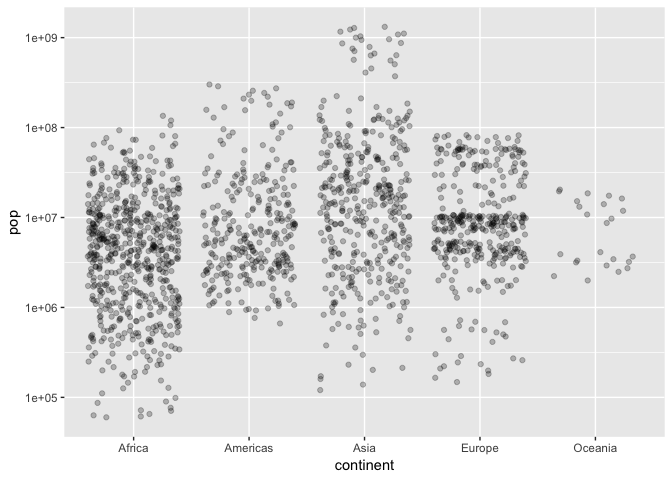
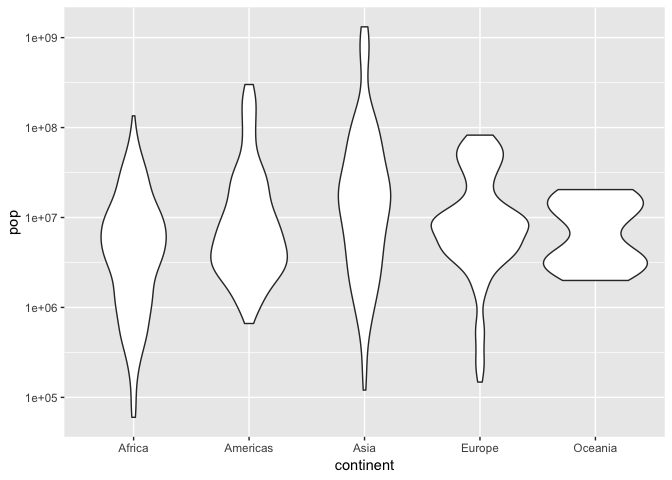
update cm006

diff --git a/cm006/cm006-exercise.md b/cm006/cm006-exercise.md
@@ -44,6 +44,8 @@ Let's look at a *scatterplot* of `gdpPercap` vs. `lifeExp`.
 
 1.  Populate the data and aesthetic mapping in `ggplot`. What is returned? What's missing?
 
+Answer: The points are missing
+
 ``` r
 ggplot(gapminder, aes(x=lifeExp, y=gdpPercap))
 ```
@@ -51,6 +53,8 @@ ggplot(gapminder, aes(x=lifeExp, y=gdpPercap))
 ![](cm006-exercise_files/figure-markdown_github/unnamed-chunk-2-1.png)
 
 1.  Add the missing component as a *layer*.
+
+Answer : geom\_point () added
 
 ``` r
 ggplot(gapminder, aes(x=lifeExp, y=gdpPercap)) + 
@@ -61,14 +65,23 @@ ggplot(gapminder, aes(x=lifeExp, y=gdpPercap)) +
 
 Notice the "metaprogramming" again!
 
+     From wikipedia...  Metaprogramming is a programming technique in which computer programs have the ability to treat programs as their data. It means that a program can be designed to read, generate, analyse or transform other programs, and even modify itself while running. In some cases, this allows programmers to minimize the number of lines of code to express a solution, thus reducing the development time. It also allows programs greater flexibility to efficiently handle new situations without recompilation.
+
 1.  You *must* remember to put the aesthetic mappings in the `aes` function! What happens if you forget?
+
+Answer: Error: geom\_point requires the following missing aesthetics: x, y
 
 ``` r
 ggplot(gapminder) +
-    geom_point(aes(x=lifeExp, y=gdpPercap))
+    geom_point()
 ```
 
-![](cm006-exercise_files/figure-markdown_github/unnamed-chunk-4-1.png)
+``` r
+ggplot(gapminder, aes(x=lifeExp, y=gdpPercap)) + 
+    geom_point()
+```
+
+![](cm006-exercise_files/figure-markdown_github/unnamed-chunk-5-1.png)
 
 1.  Put the y-axis on a log scale, first by transforming the y variable.
     -   Note: `ggplot2` does some data wrangling and computations itself! We don't always have to modify the data frame.
@@ -78,7 +91,7 @@ ggplot(gapminder, aes(x=lifeExp, y=log(gdpPercap))) +
     geom_point()
 ```
 
-![](cm006-exercise_files/figure-markdown_github/unnamed-chunk-5-1.png)
+![](cm006-exercise_files/figure-markdown_github/unnamed-chunk-6-1.png)
 
 1.  Try again, this time by changing the *scale* (this way is better).
 
@@ -88,11 +101,20 @@ ggplot(gapminder, aes(lifeExp, gdpPercap)) +
     scale_y_log10()
 ```
 
-![](cm006-exercise_files/figure-markdown_github/unnamed-chunk-6-1.png)
+![](cm006-exercise_files/figure-markdown_github/unnamed-chunk-7-1.png)
 
 1.  The aesthetic mappings can be specified on the geom layer if you want, instead of the main `ggplot` call. Give it a try:
 
-2.  Optional: git stage and commit
+``` r
+ggplot(gapminder) + 
+    geom_point(aes(x=lifeExp, y=gdpPercap))
+```
+
+![](cm006-exercise_files/figure-markdown_github/unnamed-chunk-8-1.png)
+
+1.  Optional: git stage and commit
+
+DONE
 
 **Uses of a scatterplot**:
 
@@ -123,7 +145,7 @@ ggplot(gapminder, aes(lifeExp)) +
 
     ## `stat_bin()` using `bins = 30`. Pick better value with `binwidth`.
 
-![](cm006-exercise_files/figure-markdown_github/unnamed-chunk-7-1.png)
+![](cm006-exercise_files/figure-markdown_github/unnamed-chunk-9-1.png)
 
 1.  Change the number of bins to 50.
 
@@ -132,7 +154,7 @@ ggplot(gapminder, aes(lifeExp)) +
     geom_histogram(bins = 50)
 ```
 
-![](cm006-exercise_files/figure-markdown_github/unnamed-chunk-8-1.png)
+![](cm006-exercise_files/figure-markdown_github/unnamed-chunk-10-1.png)
 
 1.  Instead of a histogram, let's create a kernel density plot.
 
@@ -144,9 +166,11 @@ ggplot(gapminder, aes(lifeExp)) +
 
     ## `stat_bin()` using `bins = 30`. Pick better value with `binwidth`.
 
-![](cm006-exercise_files/figure-markdown_github/unnamed-chunk-9-1.png)
+![](cm006-exercise_files/figure-markdown_github/unnamed-chunk-11-1.png)
 
 1.  Optional: git stage and commit
+
+DONE
 
 **Uses of a histogram**: Explore the distribution of a single numeric variable.
 
@@ -173,7 +197,7 @@ a <- ggplot(gapminder, aes(continent, pop)) +
 a
 ```
 
-![](cm006-exercise_files/figure-markdown_github/unnamed-chunk-10-1.png)
+![](cm006-exercise_files/figure-markdown_github/unnamed-chunk-12-1.png)
 
 1.  Add the boxplot geom to `a`.
 
@@ -181,18 +205,24 @@ a
 a + geom_boxplot()
 ```
 
-![](cm006-exercise_files/figure-markdown_github/unnamed-chunk-11-1.png)
+![](cm006-exercise_files/figure-markdown_github/unnamed-chunk-13-1.png)
 
 1.  A violin plot is a kernel density on its side, made symmetric. Add that geom to `a`.
     -   What's better here, boxplots or violin plots? Why?
+
+A violin plot has four layers. The outer shape represents all possible results, with thickness indicating how common. (Thus the thickest section represents the mode average.) The next layer inside represents the values that occur 95% of the time. The next layer (if it exists) inside represents the values that occur 50% of the time. The central dot represents the median average value.
+
+A violin plot is more informative than a plain box plot. In fact while a box plot only shows summary statistics such as mean/median and interquartile ranges, the violin plot shows the full distribution of the data. The difference is particularly useful when the data distribution is multimodal (more than one peak). In this case a violin plot clearly shows the presence of different peaks, their position and relative amplitude. This information could not be represented with a simple box plot which only reports summary statistics. The inner part of a violin plot usually shows the mean (or median) and the interquartile range. In other cases, when the number of samples is not too high, the inner part can show all sample points (with a dot or a line for each sample).
 
 ``` r
 a + geom_violin()
 ```
 
-![](cm006-exercise_files/figure-markdown_github/unnamed-chunk-12-1.png)
+![](cm006-exercise_files/figure-markdown_github/unnamed-chunk-14-1.png)
 
 1.  Optional: git stage and commit
+
+Done
 
 **Use of boxplot**: Visualize 1-dimensional distributions (of a single numeric variable).
 
@@ -206,21 +236,25 @@ Let's hold off on identifying the grammar.
 1.  Initiate the `ggplot` call to make a scatterplot of `continent` vs `pop`; initiate the log y scale. Store the call in the variable `b`.
 
 ``` r
-a + geom_point(alpha=0.1)
+b <- a + geom_point(alpha=1/10) # for every 10 points it makes a point 
+
+print(b)
 ```
 
-![](cm006-exercise_files/figure-markdown_github/unnamed-chunk-13-1.png)
+![](cm006-exercise_files/figure-markdown_github/unnamed-chunk-15-1.png)
 
 1.  A solution is to jitter the points. Add the jitter geom. Re-run the command a few times -- does the plot change? Why?
 
+Help to handle overplotting better in smaller dataset. It avoids overplotting, overplotting is when one or more points are in the same place (or close enough to the same place) that you can't look at the plot and tell how many points are there.
+
 ``` r
-a + geom_jitter(alpha=0.25)
+a + geom_jitter(alpha = 1/4)
 ```
 
-![](cm006-exercise_files/figure-markdown_github/unnamed-chunk-14-1.png)
+![](cm006-exercise_files/figure-markdown_github/unnamed-chunk-16-1.png)
 
 1.  How does the grammar differ from a box plot or violin plot?
-    -   ANSWER:
+    -   ANSWER: geom\_point(position = "jitter")
 2.  We can add multiple geom *layers* to our plot. Put a jitterplot overtop of the violin plot, starting with our base `b`. Try vice-versa.
 
 ``` r
@@ -228,7 +262,7 @@ a + geom_violin() +
     geom_jitter(alpha=0.1)
 ```
 
-![](cm006-exercise_files/figure-markdown_github/unnamed-chunk-15-1.png)
+![](cm006-exercise_files/figure-markdown_github/unnamed-chunk-17-1.png)
 
 1.  Optional: git stage and commit
 
@@ -263,7 +297,7 @@ gapminder %>%
     geom_point()
 ```
 
-![](cm006-exercise_files/figure-markdown_github/unnamed-chunk-16-1.png)
+![](cm006-exercise_files/figure-markdown_github/unnamed-chunk-18-1.png)
 
 1.  Attempt to overlay line plots for all countries. That is, repeat the above code, but don't filter. What's wrong here?
 
@@ -272,17 +306,17 @@ c <- ggplot(gapminder, aes(year, lifeExp))
 c + geom_line()
 ```
 
-![](cm006-exercise_files/figure-markdown_github/unnamed-chunk-17-1.png)
-
-``` r
-c + geom_line(aes(group=country), alpha=0.2)
-```
-
-![](cm006-exercise_files/figure-markdown_github/unnamed-chunk-17-2.png)
+![](cm006-exercise_files/figure-markdown_github/unnamed-chunk-19-1.png)
 
 1.  Use the `group` aesthetic to fix the problem.
 
-2.  Optional: git stage and commit
+``` r
+c + geom_line(aes(group = country), alpha = 0.2)
+```
+
+![](cm006-exercise_files/figure-markdown_github/unnamed-chunk-20-1.png)
+
+1.  Optional: git stage and commit
 
 **Uses of time/line plots**: Visualize trends of a numeric variable over time.
 
